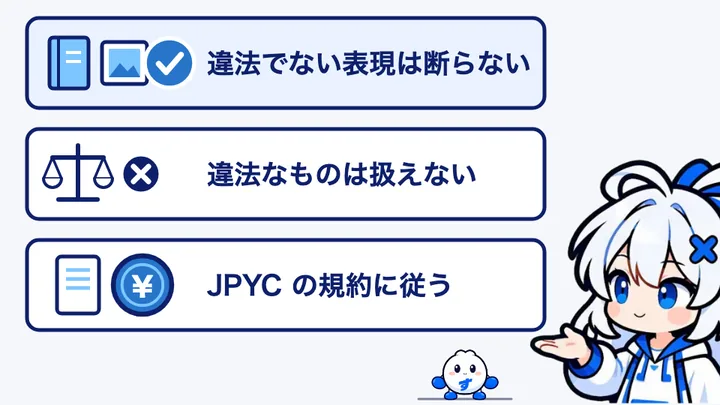
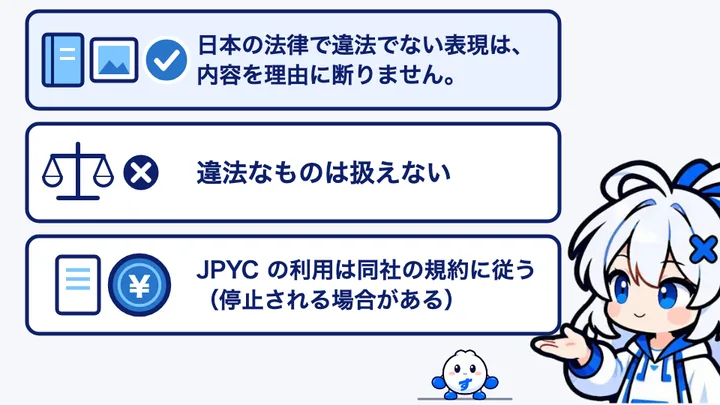
fix(policy): 表現に関する方針の図の文言を原文どおりにし、文字を 30px 以上・チェックの印を額縁から離す

diff --git a/scripts/figures/policy-expression/line.js b/scripts/figures/policy-expression/line.js
@@ -2,7 +2,7 @@
 // 1 段目：日本の法律で違法でない表現は、内容を理由に断らない（すてぶるペイの約束。青い段）。図の文字は方針の言葉に寄せ、「合法なら」とは書かない。
 // 2 段目：違法なものは扱えない（法律に反するものは、どの決済手段でも違法）。
 // 3 段目：受け取る JPYC の利用は、JPYC 株式会社の利用規約に従う（同規約により利用が停止される場合がある）。
-// 作品は本・額縁の絵で表し、内容（成人向け・暴力・政治など）は描かない。文字は 3 か所（各段）。すてぶるくんは右下の床に立つ。
+// 作品は本・額縁の絵で表し、内容（成人向け・暴力・政治など）は描かない。文字は 3 か所（各段。30px 以上、2 行にする段がある）。すてぶるくんは右下の床に立つ。
 FX.figure({
   duration: 9,
   draw(ctx, t) {
@@ -37,14 +37,14 @@ FX.figure({
       for (const y of [-20, -8, 4]) { ctx.beginPath(); ctx.moveTo(-16, y); ctx.lineTo(16, y); shape(ctx, null, C.light, 5); }
     };
 
-    const CW = 690, CH = 120, X0 = 36;
+    const CW = 710, CH = 130, X0 = 36, TX = 262;
     const ROWS = [
-      { y: 84, start: 0.2, fill: "#eaf2ff", label: "違法でない表現は断らない",
-        icons: [{ x: 96, f: book, s: 1.0 }, { x: 166, f: frame, s: 1.0 }, { x: 226, f: () => ICON.check(ctx), s: 1.1 }] },
-      { y: 232, start: 2.7, fill: C.white, label: "違法なものは扱えない",
+      { y: 80, start: 0.2, fill: "#eaf2ff", size: 30, label: ["日本の法律で違法でない表現は、", "内容を理由に断りません。"],
+        icons: [{ x: 88, f: book, s: 1.0 }, { x: 152, f: frame, s: 1.0 }, { x: 222, f: () => ICON.check(ctx), s: 1.0 }] },
+      { y: 230, start: 2.7, fill: C.white, size: 34, label: ["違法なものは扱えない"],
         icons: [{ x: 104, f: scale, s: 1.0 }, { x: 188, f: stop, s: 1.0 }] },
-      { y: 380, start: 5.0, fill: C.white, label: "JPYC の規約に従う",
-        icons: [{ x: 104, f: doc, s: 1.0 }, { x: 190, f: () => COIN.stable(ctx), s: 1.3 }] },
+      { y: 380, start: 5.0, fill: C.white, size: 30, label: ["JPYC の利用は同社の規約に従う", "（停止される場合がある）"],
+        icons: [{ x: 104, f: doc, s: 1.0 }, { x: 186, f: () => COIN.stable(ctx), s: 1.3 }] },
     ];
     const END = 6.8;
     ROWS.forEach((r, i) => {
@@ -58,7 +58,7 @@ FX.figure({
         const s = track(t, r.start + 0.2 + 0.18 * k, PLAY);
         at(ctx, ic.x, r.y, s * ic.s, s, ic.f);
       });
-      at(ctx, 276, r.y, 1, ramp(t, r.start + 0.3, r.start + 0.6), () => text(ctx, r.label, 0, 0, { size: 36, align: "left" }));
+      at(ctx, TX, r.y, 1, ramp(t, r.start + 0.3, r.start + 0.6), () => r.label.forEach((l, k) => text(ctx, l, 0, (k - (r.label.length - 1) / 2) * 40, { size: r.size, align: "left" })));
       ctx.restore();
     });
 

diff --git a/policy/expression/index.html b/policy/expression/index.html
@@ -137,7 +137,7 @@
               <picture>
                 <source type="image/webp" srcset="/assets/learn/policy-expression/line.webp" media="(prefers-reduced-motion: no-preference)" />
                 <source type="image/webp" srcset="/assets/learn/policy-expression/line-still.webp" />
-                <img src="/assets/learn/policy-expression/line.gif" width="720" height="405" alt="表現に関する方針の線引きの図。1 段目：日本の法律で違法でない表現は、内容を理由に断りません。表現の良し悪しを決めるのは、決済会社ではありません（本と額縁の絵と、チェックの印）。2 段目：違法なものは扱えません（はかりの絵と、×の印）。3 段目：JPYC の利用は JPYC 株式会社の利用規約に従い、同規約により利用が停止される場合があります（利用規約の絵と、JPYC のコインの絵）。すてぶるちゃんが手のひらで図を示し、すてぶるくんが見ています。" loading="lazy" decoding="async" />
+                <img src="/assets/learn/policy-expression/line.gif" width="720" height="405" alt="表現に関する方針の線引きの図。1 段目：日本の法律で違法でない表現は、内容を理由に断りません（本と額縁の絵と、チェックの印）。2 段目：違法なものは扱えません（はかりの絵と、×の印）。3 段目：JPYC の利用は JPYC 株式会社の規約に従い、停止される場合があります（利用規約の絵と、JPYC のコインの絵）。すてぶるちゃんが手のひらで図を示し、すてぶるくんが見ています。" loading="lazy" decoding="async" />
               </picture>
               <figcaption>日本の法律で違法でない表現は、内容を理由に断りません。表現の良し悪しを決めるのは、決済会社ではありません。違法なものは扱えません。JPYC の利用は JPYC 株式会社の利用規約に従い、同規約により利用が停止される場合があります。</figcaption>
             </figure>
